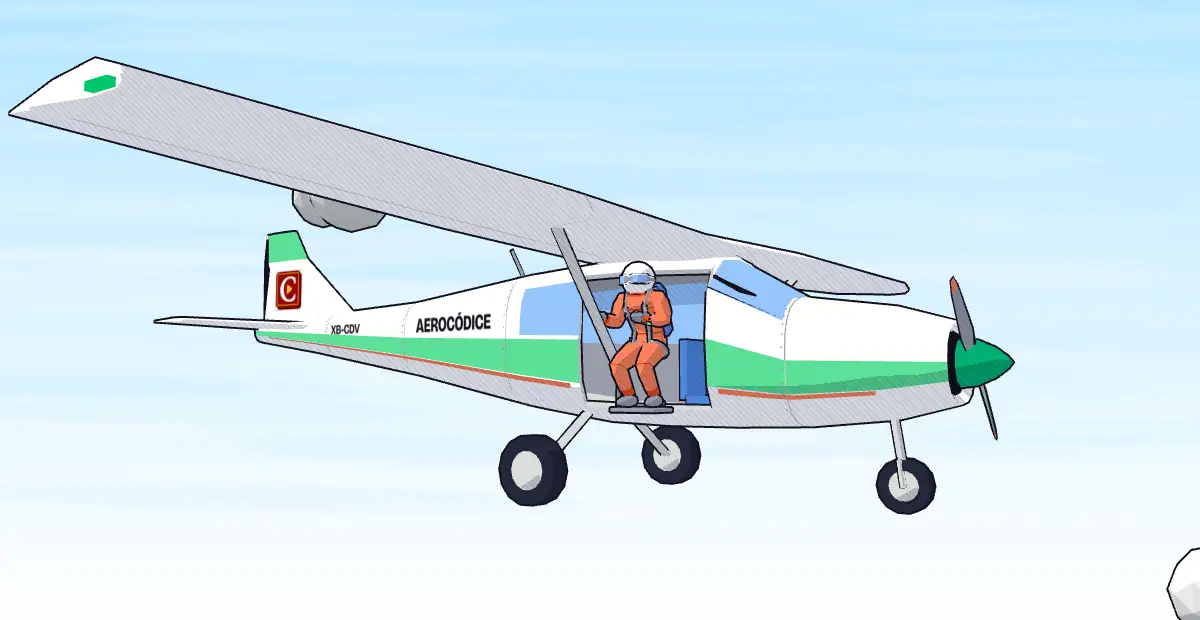
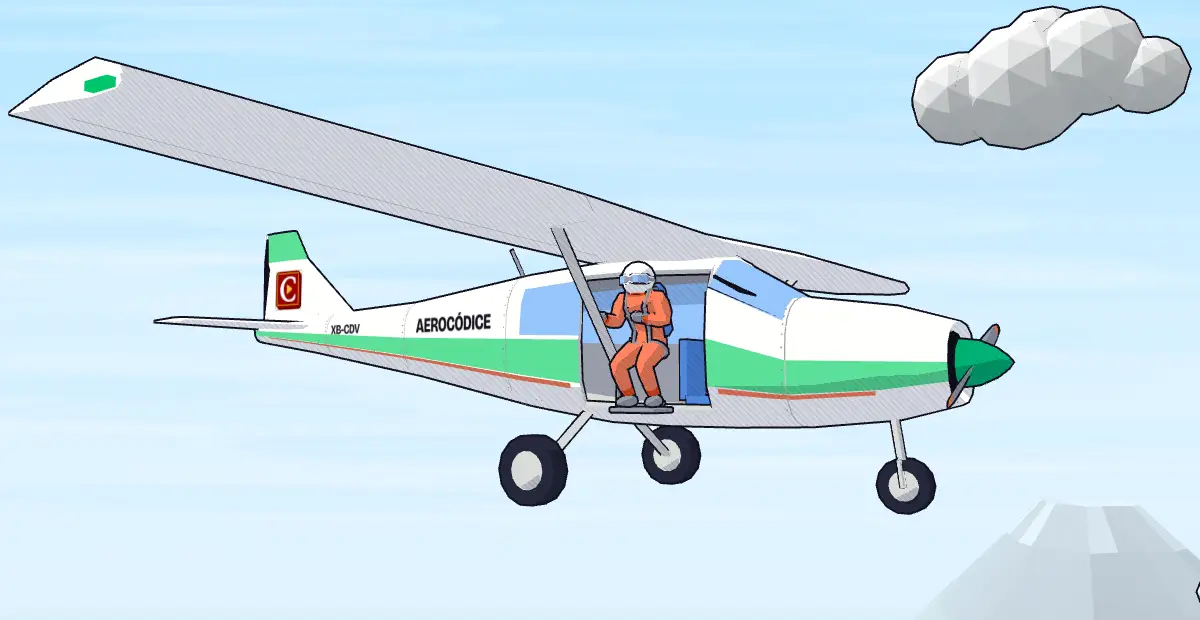
lámina caída libre (cine): tierra natural, clima, toma 6, lámpara y PC lado a lado
- Tierra: parcelas irregulares (retícula desigual y desplazada, parcelas unidas y partidas), bosque y
  olivo, paleta de la tierra más suave; volcán al horizonte, medio en bruma.
- Líneas de velocidad blancas, cortas y solo alrededor de la paracaidista.
- Toma 6: sin nube encima y con la cinta coral completa; nubes cercanas casi quietas y en tiempo de escena.
- Clima sin posprocesado: perspectiva atmosférica, nubes en capas, velo que la cámara atraviesa, sombras
  de nubes instanciadas y resplandor del sol con sprite. Nubes unidas en una geometría (fps sin cambio).
- Mesa: lámpara articulada SVG arriba a la izquierda, fuente de la luz y de las sombras.
- PC (≥ 1000 px): lámina sticky al 58 % y mesa al 42 % lado a lado (retícula de 6 columnas, hoja del
  ancho de la mesa); en celular sigue apilado. respaldo.webp regenerado.
- Pendiente en temas.md: cambiar el ícono de la cola.

diff --git a/plantilla/interactivos/caida-libre/taller/escena.js b/plantilla/interactivos/caida-libre/taller/escena.js
@@ -7,9 +7,11 @@ import * as THREE from "three";
 import { GLTFLoader } from "three/addons/loaders/GLTFLoader.js";
 import { MeshoptDecoder } from "three/addons/libs/meshopt_decoder.module.js";   // .glb comprimidos (gltfpack -cc)
 import { clone as clonar } from "three/addons/utils/SkeletonUtils.js";
+import { mergeGeometries } from "three/addons/utils/BufferGeometryUtils.js";
 import { estilizar, pieza, ajustarContorno, agregarContorno, contornoPropio } from "./toon.js";
 import { crearEtiquetas } from "./etiquetas.js";
 import { crearTierra } from "./tierra.js";
+import { crearPaleta } from "./paleta.js";
 
 const C = { blanco: 0xf4f4f1, gris: 0xd6d7d5, grisO: 0x9fa3aa, menta: 0x8fd3b0, azul: 0x6f93c9,
   coral: 0xe39a84, coralO: 0xc77964, alumna: 0xe3b95a, tinta: 0x2a2a33, nube: 0xffffff };
@@ -83,7 +85,8 @@ export async function crearEscena({ lienzo, maqueta, D, P, rutaModelos, reducido
   ren.setPixelRatio(Math.min(devicePixelRatio, 2));
   ren.outputColorSpace = THREE.SRGBColorSpace;
   const esc = new THREE.Scene();
-  const CIELO = ["#BFDDEC", "#DCEEF5", "#EEF6F3"];
+  // Perspectiva atmosférica: lo lejano se aclara y azulea; la niebla y el pie del cielo son el mismo azul claro.
+  const CIELO = ["#BFDDEC", "#D8EAF4", "#DDE9F0"];
   esc.fog = new THREE.Fog(0xffffff, CI.tierra.nieblaDe, CI.tierra.nieblaA);
   // Cielo pintado: degradado + pinceladas suaves (acuarela) en un canvas que se pinta UNA vez
   // (también para la imagen fija). La niebla toma el color de abajo para que el horizonte no se corte.
@@ -108,7 +111,7 @@ export async function crearEscena({ lienzo, maqueta, D, P, rutaModelos, reducido
     const tex = new THREE.CanvasTexture(c); tex.colorSpace = THREE.SRGBColorSpace; esc.background = tex;
   }
   pintaCielo();
-  const cam = new THREE.PerspectiveCamera(34, 1, 0.5, 1600);
+  const cam = new THREE.PerspectiveCamera(34, 1, 0.5, 2800);
   esc.add(new THREE.HemisphereLight(0xffffff, 0xcfd8dc, 1.6));
   const sol = new THREE.DirectionalLight(0xffffff, 2.2); sol.position.set(-6, 10, 4); esc.add(sol);
   const et = crearEtiquetas(maqueta);
@@ -233,23 +236,64 @@ export async function crearEscena({ lienzo, maqueta, D, P, rutaModelos, reducido
   const etSola = et.nueva(D.texto(D.T.textos.sola), { prioridad: 4, clase: "chip" });
 
   // ---------- nubes y tierra ----------
-  const nubes = [], geoNube = new THREE.IcosahedronGeometry(1, 1), matNube = new THREE.MeshLambertMaterial({ color: C.nube, flatShading: true });
+  // Una nube = 5 esferas low-poly unidas en UNA geometría compartida (1 malla + 1 contorno por nube).
+  const geoNube = new THREE.IcosahedronGeometry(1, 1);
+  const unir = (bolas) => mergeGeometries(bolas.map(([a, b, c, r]) => geoNube.clone().scale(r, r, r).translate(a, b, c)));
+  const geoCumulo = unir([[0, 0, 0, 1.6], [1.6, .3, .2, 1.3], [-1.5, -.1, .1, 1.2], [.5, .9, -.3, 1.1], [2.8, -.2, 0, .9]]);
+  const nubes = [], matNube = new THREE.MeshLambertMaterial({ color: C.nube, flatShading: true });
   function nube(x, y, z, s) {
-    const g = new THREE.Group(); g.position.set(x, y, z); g.scale.setScalar(s); esc.add(g);
-    [[0, 0, 0, 1.6], [1.6, .3, .2, 1.3], [-1.5, -.1, .1, 1.2], [.5, .9, -.3, 1.1], [2.8, -.2, 0, .9]].forEach(([a, b, c, r]) => {
-      const m = new THREE.Mesh(geoNube, matNube); m.scale.setScalar(r);
-      m.position.set(a, b, c); g.add(m); agregarContorno(m);
-    });
+    const g = new THREE.Mesh(geoCumulo, matNube); g.position.set(x, y, z); g.scale.setScalar(s); esc.add(g);
+    agregarContorno(g);
     g.userData = { casa: x, desliza: 0 };
     nubes.push(g);
   }
   // junto a la cinta (como antes) · en la ruta de la avioneta · abajo, entre la caída y la tierra
-  nube(-30, 30, -6, 1.3); nube(22, 36, -14, 1.1); nube(-22, 26, -8, 1.6); nube(24, 16, -10, 1.2);
-  nube(-20, 8, -12, 1.2); nube(20, 2, -16, 1.4); nube(-10, -16, -24, 1.5);
+  nube(-30, 30, -6, 1.3); nube(22, 36, -14, 1.1); nube(-30, 24, -20, 1.6); nube(24, 16, -10, 1.2);
+  nube(-34, 8, -22, 1.2); nube(22, 2, -18, 1.4); nube(-32, -16, -34, 1.5);   // fuera de la línea de la toma 6
   nube(-250, 64, -40, 2.2); nube(-185, 34, -60, 2.6); nube(-125, 72, -34, 1.8); nube(-75, 44, -75, 2.8); nube(-220, 30, 70, 2);
   nube(-30, -70, -50, 3.2); nube(40, -105, 20, 3.6); nube(-80, -140, 40, 4); nube(70, -160, -90, 4.4);
-  const tierra = crearTierra({ y: YT, hex: P.css });   // tierra.userData.recolorea(hex) la repinta
+  // Capa baja (entre la caída y la tierra) y capa alta: el cielo tiene profundidad.
+  [[-60, -32, -40, 2.8], [-15, -38, -70, 3.2], [35, -30, -45, 2.6], [70, -42, -20, 3.4], [-90, -36, 10, 3], [10, -45, 30, 3.6],
+   [-40, 88, -90, 3.4], [60, 96, -120, 4], [-150, 92, -60, 3.6]].forEach(([x, y, z, k]) => nube(x, y, z, k));
+  // Velo que la cámara atraviesa al caer (toma 5): nube translúcida en su camino, sin contorno.
+  const matVelo = new THREE.MeshLambertMaterial({ color: C.nube, flatShading: true, transparent: true, opacity: .28, depthWrite: false });
+  const velo = new THREE.Mesh(unir([[0, 0, 0, 1.6], [1.5, .3, .2, 1.2], [-1.4, -.1, .1, 1.1], [.4, .8, -.3, 1]]), matVelo);
+  velo.position.set(5.9, 41.7, 12.9); velo.scale.setScalar(.85); esc.add(velo);
+  // La tierra usa la paleta con menos croma y sin empujón al verde: viva pero natural (no verde limón).
+  const pT = P.activa ? crearPaleta({ ...D.cine.paletas.predeterminada, croma: 1.25, verde: 0 }) : P;
+  const tierra = crearTierra({ y: YT, hex: pT.css });   // tierra.userData.recolorea(hex) la repinta
   esc.add(tierra);
+  // Sombras de nubes sobre la tierra: manchas suaves que se deslizan despacio (textura de 64 px, 10 planos).
+  const texMancha = (() => {
+    const c = document.createElement("canvas"); c.width = c.height = 64;
+    const x = c.getContext("2d"), g = x.createRadialGradient(32, 32, 4, 32, 32, 32);
+    g.addColorStop(0, "rgba(255,255,255,1)"); g.addColorStop(.6, "rgba(255,255,255,.6)"); g.addColorStop(1, "rgba(255,255,255,0)");
+    x.fillStyle = g; x.fillRect(0, 0, 64, 64); return new THREE.CanvasTexture(c);
+  })();
+  const matSombra = new THREE.MeshBasicMaterial({ map: texMancha, color: 0x1d3524, transparent: true, opacity: .2, depthWrite: false });
+  const NS_ = 10, sombras = new THREE.InstancedMesh(new THREE.PlaneGeometry(1, 1).rotateX(-Math.PI / 2), matSombra, NS_);
+  sombras.userData.propio = true; sombras.frustumCulled = false; esc.add(sombras);
+  const datoSombra = Array.from({ length: NS_ }, (_, k) => ({ x: -650 + (k * 431) % 1300, z: -700 + (k * 283) % 1000, sx: 160 + (k * 37) % 120, sz: 110 + (k * 53) % 90 }));
+  const mSom = new THREE.Matrix4(), pSom = new THREE.Vector3(), qSom = new THREE.Quaternion(), eSom = new THREE.Vector3();
+  function moverSombras(tau) {                  // se deslizan con el tiempo de la escena (reproducible)
+    datoSombra.forEach((o, k) => {
+      const x = o.x - 500 + ((tau * (3 + k % 3) * 4 + 500) % 1000);
+      sombras.setMatrixAt(k, mSom.compose(pSom.set(x, YT + 1.5, o.z), qSom, eSom.set(o.sx, 1, o.sz)));
+    });
+    sombras.instanceMatrix.needsUpdate = true;
+  }
+  moverSombras(0);
+  // Sol: resplandor suave con un sprite, arriba a la izquierda, siempre a la misma distancia de la cámara.
+  const SOL = new THREE.Vector3(-0.62, 0.5, -0.6).normalize();
+  const sol_ = (() => {
+    const c = document.createElement("canvas"); c.width = c.height = 128;
+    const x = c.getContext("2d"), g = x.createRadialGradient(64, 64, 2, 64, 64, 64);
+    g.addColorStop(0, "rgba(255,252,236,1)"); g.addColorStop(.12, "rgba(255,248,222,.95)"); g.addColorStop(.35, "rgba(255,240,205,.35)"); g.addColorStop(1, "rgba(255,240,205,0)");
+    x.fillStyle = g; x.fillRect(0, 0, 128, 128);
+    const t = new THREE.CanvasTexture(c); t.colorSpace = THREE.SRGBColorSpace;
+    const sp = new THREE.Sprite(new THREE.SpriteMaterial({ map: t, transparent: true, depthWrite: false, fog: false }));
+    sp.scale.setScalar(420); sp.userData.propio = true; esc.add(sp); return sp;
+  })();
 
   // ---------- paleta: pasada por los materiales al cargar y al soltar un deslizador (nunca por cuadro) ----------
   const colores = [], vistos = new Set();                      // [color de three, original]
@@ -311,7 +355,8 @@ export async function crearEscena({ lienzo, maqueta, D, P, rutaModelos, reducido
     salto: (l, d) => { const k = ease(clamp(l * 1.3)); return [d.clone().add(V(4, -.2 + 2.2 * k, 6 + 18 * k)), d.clone().add(V(-1.2 + 3.7 * k, .1 - 1.6 * k, -1 + k))]; },
     // tilt down: desde arriba, la mirada baja hasta tener la tierra de fondo
     picado: (l, d) => [d.clone().add(V(7, 6 + 3.5 * ease(l), 11)), d.clone().add(V(1, -1.5 - 2 * ease(l), -1))],
-    persecucion: (l, d) => [d.clone().add(V(5, 7, 8 - 1.5 * l)), d.clone().add(V(1, -2.5 - 2 * l, -2))],
+    // picado cercano: mira al punto medio entre ella y la cinta, para que el tramo coral entre completo
+    persecucion: (l, d) => [d.clone().add(V(4.4, 9, 13 - 1.5 * l)), d.clone().add(V(4.4, -3 - 2 * l, -1))],
     // apertura: desde abajo, la vela se infla contra el cielo
     abrir: (l, d) => [d.clone().add(V(9, -8 + 2 * l, 14)), d.clone().add(V(-1.5, 2.5 + 1.5 * l, 0))],
     revelacion: () => revelacion(),
@@ -325,8 +370,12 @@ export async function crearEscena({ lienzo, maqueta, D, P, rutaModelos, reducido
   function plano(i, S, d, a) {
     const x = TOMAS[i], l = clamp((S - x.de) / (x.a - x.de));
     let [p, o] = TOMA[x.cam](l, d, a);
-    if (cam.aspect < 1 && LEJOS[x.cam]) {                // pantalla vertical: más lejos y, al caer, centrado entre la sola y el tándem
-      const k = Math.min(2.2, LEJOS[x.cam] / cam.aspect), dx = CAEN.has(x.cam) && S >= SALTO ? (XT - X0) / 2 : 0;
+    if (cam.aspect < 1.9 && LEJOS[x.cam]) {
+      // Las tomas se encuadraron para la lámina ancha (~2.4:1). Pantalla vertical: más lejos y, al caer, centrado
+      // entre la sola y el tándem. PC lado a lado (~1.2:1): solo un retroceso suave.
+      const vertical = cam.aspect < 1;
+      const k = vertical ? Math.min(2.2, LEJOS[x.cam] / cam.aspect) : 1 + (1.9 - cam.aspect) * 0.62;
+      const dx = vertical && CAEN.has(x.cam) && S >= SALTO ? (XT - X0) / 2 : 0;
       o = o.clone().add(V(dx, 0, 0)); p = o.clone().add(p.clone().sub(o).add(V(dx, 0, 0)).multiplyScalar(k));
     }
     return [p, o];
@@ -375,18 +424,18 @@ export async function crearEscena({ lienzo, maqueta, D, P, rutaModelos, reducido
     const viento = S < SALTO + 0.4, caida = S >= SALTO && S < ABRIR + 0.3 && v > 2;
     vetas.visible = !reducido && (viento || caida);
     if (!vetas.visible) return;
-    if (caida) {                                  // líneas de velocidad: suben tanto como ella cae (h), largas según v
-      const c = V((X0 + XT) / 2, d.y, (Z0 + ZT) / 2), H = 26, L = 0.4 + v * 0.09;
-      vetas.material.opacity = clamp(v / 20) * 0.32;
+    if (caida) {                                  // líneas de velocidad: blancas, cortas, solo alrededor de ella; suben lo que ella cae
+      const H = 7, L = 0.25 + v * 0.035;
+      vetas.material.color.setHex(0xffffff); vetas.material.opacity = clamp(v / 18) * 0.75;
       semVeta.forEach(([a, b, e], i) => {
-        const ang = a * 6.283, rad = 3 + b * 7;
-        pVeta.set(c.x + Math.cos(ang) * rad * 1.4, c.y - H / 2 + ((e * H + hT) % H), c.z + Math.sin(ang) * rad);
+        const ang = a * 6.283, rad = 1.3 + b * 2.4;
+        pVeta.set(d.x + Math.cos(ang) * rad, d.y - H / 2 + ((e * H + hT) % H), d.z + Math.sin(ang) * rad);
         qVeta.setFromAxisAngle(yEje, Math.atan2(cam.position.x - pVeta.x, cam.position.z - pVeta.z));
-        mVeta.compose(pVeta, qVeta, eVeta.set(0.07, L, 1)); vetas.setMatrixAt(i, mVeta);
+        mVeta.compose(pVeta, qVeta, eVeta.set(0.035, L, 1)); vetas.setMatrixAt(i, mVeta);
       });
     } else {                                      // viento: vetas horizontales que pasan junto a la avioneta
       const a0 = av.position, rel = tau * E.velocidadAvioneta * 2.2;
-      vetas.material.opacity = 0.22;
+      vetas.material.color.setHex(0x343a52); vetas.material.opacity = 0.22;
       semVeta.forEach(([a, b, e, f], i) => {
         pVeta.set(a0.x + 18 - ((a * 36 + rel) % 36), a0.y + (b - .5) * 8, a0.z - 8 + e * 12);
         qVeta.identity(); mVeta.compose(pVeta, qVeta, eVeta.set(1.2 + f * 2.6, 0.05, 1)); vetas.setMatrixAt(i, mVeta);
@@ -447,7 +496,13 @@ export async function crearEscena({ lienzo, maqueta, D, P, rutaModelos, reducido
     });
     contornoYo.uniforms.color.value.copy(seg ? colSeg[seg - 1] : tintaYo);
     contornoYo.uniforms.grosor.value = seg ? grosor * 2 : grosor;
-    if (!reducido) nubes.forEach((nb, i) => { const u = nb.userData; u.desliza = (u.desliza + dtF * (0.6 + i % 3 * .3)) % 60; nb.position.x = u.casa - 30 + u.desliza; });
+    // las nubes se desplazan con el tiempo físico de la escena (reproducible: mismo instante, mismo cielo)
+    const tauN = D.tauDe(S);
+    // las cercanas a la caída apenas se mueven (±6 m): nunca cruzan el pasillo entre ella y la cinta
+    if (!reducido) nubes.forEach((nb, i) => {
+      const u = nb.userData, amp = Math.abs(u.casa) < 45 && Math.abs(nb.position.y) < 45 ? 6 : 30;
+      nb.position.x = u.casa + amp * (((tauN * (0.6 + i % 3 * .3) + i * 7.3) % 60) / 30 - 1);
+    });
     const abierto = S >= ABRIR;
     etTan.visible = S >= SALTO && !abierto; etTan.pos.set(XT, y + 3.2, ZT);
     etSola.visible = S >= SALTO && !abierto; etSola.pos.set(X0, y + 2.6, Z0);
@@ -459,6 +514,8 @@ export async function crearEscena({ lienzo, maqueta, D, P, rutaModelos, reducido
     }
     aleteo(yo, S, 0); aleteo(tan, S, 1.7);
     camara(S, d, est, W, H);
+    sol_.position.copy(cam.position).addScaledVector(SOL, 1500);
+    if (!reducido) moverSombras(D.tauDe(S));
     vetasDe(S, lec, d); if (est.respaldo || est.pausa) vetas.visible = false;
     verDetalle(detYo, d, 16); verDetalle(detTan, tan.o.position, 16);   // en el bullet time no: con la órbita parecerían lluvia
     halo.visible = !!seg && !est.respaldo;

diff --git a/plantilla/interactivos/caida-libre/taller/tierra.js b/plantilla/interactivos/caida-libre/taller/tierra.js
@@ -4,12 +4,15 @@
 import * as THREE from "three";
 
 const COL = {
-  campos: ["#A9D77A", "#C9DD8F", "#93C96E", "#E2D39A", "#B6DC87", "#D7C77F", "#8CBF67", "#7DBA5C", "#6FAE52", "#BFE09A", "#9CCB6B"],
+  // Vivo pero natural: bosque y olivo oscuros, pastos medios, trigo y barbecho; poco verde limón.
+  campos: ["#4F7F45", "#5E8A4A", "#6F8F4C", "#7D9152", "#7FA35A", "#8FAF62", "#93B26B", "#A3B46E",
+           "#C9B97A", "#D2BE7E", "#B59A6A", "#A6B97A"],
+  pesos: [3, 3, 3, 2, 3, 3, 2, 2, 2, 1, 1, 1],
   camino: "#D8C9A6",
   techosGranja: ["#D9694F", "#5B8DD6", "#3FA581", "#E8894F", "#C9573F"],
   rio: "#6FB3D6", orilla: "#B9D9A0", carretera: "#D8D1C2", linea: "#F4F1EA",
   muro: ["#F2EBDD", "#E8DCC8", "#F6F1E6"], techo: ["#D9694F", "#C9573F", "#B95A48"],
-  arbol: "#5E9E5C", arbolO: "#4E8A50", volcanBase: "#9DB07F", volcanMedio: "#8E7F72", volcanAlto: "#A39589",
+  arbol: "#4C7F48", arbolO: "#3E6B3E", volcanBase: "#9DB07F", volcanMedio: "#8E7F72", volcanAlto: "#A39589",
   nieve: "#F7F7F4", crater: "#6E625A",
 };
 
@@ -22,13 +25,30 @@ export function crearTierra({ y = -420, hex = (x) => x, escala = .45 } = {}) {
   const quad = (a, b, d, e, h) => { tri(a, b, d, h); tri(a, d, e, h); };
   const mezcla = (h1, h2, k) => "#" + new THREE.Color(h1).lerp(new THREE.Color(h2), k).getHexString();
 
-  // Campos: mosaico de parcelas con un poco de variación de tono.
+  // Campos irregulares: retícula de líneas con separación desigual y vértices desplazados (cuadriláteros
+  // de formas distintas); algunas parcelas vecinas comparten color (parcelas grandes de forma libre) y
+  // otras se parten en diagonal. Nada de tablero de ajedrez.
   const N = 40, L = 70, X0 = -1400, Z0 = -1700;
-  quad([-7000, -1, -7000], [-7000, -1, 7000], [7000, -1, 7000], [7000, -1, -7000], "#B5D38A");   // fondo hasta el horizonte
+  quad([-7000, -1, -7000], [-7000, -1, 7000], [7000, -1, 7000], [7000, -1, -7000], "#7E9A5C");   // fondo hasta el horizonte
+  const lineas = (n) => { const out = [0]; for (let k = 0; k < n; k++) out.push(out[k] + L * (.45 + azar() * 1.1)); const f = n * L / out[n]; return out.map((x) => x * f); };
+  const xs = lineas(N), zs = lineas(N);
+  const R = Array.from({ length: N + 1 }, (_, i) => Array.from({ length: N + 1 }, (_, j) => {
+    const borde = i === 0 || j === 0 || i === N || j === N;
+    return [X0 + xs[i] + (borde ? 0 : (azar() - .5) * L * .55), Z0 + zs[j] + (borde ? 0 : (azar() - .5) * L * .55)];
+  }));
+  const total = COL.pesos.reduce((a, b) => a + b, 0);
+  const sortea = () => { let r = azar() * total; for (let k = 0; k < COL.pesos.length; k++) if ((r -= COL.pesos[k]) < 0) return k; return 0; };
+  const idx = [];
+  for (let i = 0; i < N; i++) { idx.push([]); for (let j = 0; j < N; j++) {
+    const r = azar();
+    idx[i].push(r < .3 && i ? idx[i - 1][j] : r < .5 && j ? idx[i][j - 1] : sortea());
+  } }
+  const tono = (k) => mezcla(COL.campos[k], azar() < .5 ? "#FFFFFF" : "#3E5A34", azar() * .08);
   for (let i = 0; i < N; i++) for (let j = 0; j < N; j++) {
-    const x = X0 + i * L, z = Z0 + j * L, base = COL.campos[Math.floor(azar() * COL.campos.length)];
-    const h = mezcla(base, azar() < .5 ? "#FFFFFF" : "#6E8F4E", azar() * .12);
-    quad([x, 0, z], [x, 0, z + L], [x + L, 0, z + L], [x + L, 0, z], h);
+    const [a, b, c2, d] = [R[i][j], R[i][j + 1], R[i + 1][j + 1], R[i + 1][j]].map(([x, z]) => [x, 0, z]);
+    const h = tono(idx[i][j]);
+    if (azar() < .18) { tri(a, b, c2, h); tri(a, c2, d, tono(sortea())); }       // parcela partida en diagonal
+    else quad(a, b, c2, d, h);
   }
   // Tira a lo largo de una curva (río y carretera).
   function tira(f, ancho, alto, h, n = 60) {
@@ -46,9 +66,11 @@ export function crearTierra({ y = -420, hex = (x) => x, escala = .45 } = {}) {
   // Caminos de terracería: siguen algunas líneas del mosaico (entre parcelas).
   for (let k = 0; k < 14; k++) {
     const vertical = k % 2, linea = 4 + Math.floor(azar() * (N - 8)), desde = Math.floor(azar() * (N - 12)), largo = 6 + Math.floor(azar() * 10);
-    const fija = (vertical ? X0 : Z0) + linea * L, a0 = desde * L, a1 = Math.min(N, desde + largo) * L;
-    const f = (u) => vertical ? [fija, Z0 + a0 + (a1 - a0) * u] : [X0 + a0 + (a1 - a0) * u, fija];
-    tira(f, 5, .6, COL.camino, 2);
+    const hasta = Math.min(N, desde + largo);
+    for (let k = desde; k < hasta; k++) {
+      const p0 = vertical ? R[linea][k] : R[k][linea], p1 = vertical ? R[linea][k + 1] : R[k + 1][linea];
+      tira((u) => [p0[0] + (p1[0] - p0[0]) * u, p0[1] + (p1[1] - p0[1]) * u], 5, .6, COL.camino, 1);
+    }
   }
 
   // Caja con techo de otro color (sin cara de abajo).
@@ -99,8 +121,9 @@ export function crearTierra({ y = -420, hex = (x) => x, escala = .45 } = {}) {
   }
 
   // Volcán al fondo: cono truncado con anillos de color, cráter y nieve.
-  const VX = -620, VZ = -1350, SEG = 18;
-  const anillos = [[300, 0, COL.volcanBase], [190, 120, COL.volcanMedio], [95, 215, COL.volcanAlto], [52, 262, COL.nieve], [30, 250, COL.crater]];
+  // Volcán en el horizonte (a ~1.3 km de la caída): grande y medio perdido en la niebla, no un cerrito bajo ella.
+  const VX = -1000, VZ = -3500, SEG = 18, EV = 2.6;
+  const anillos = [[300 * EV, 0, COL.volcanBase], [190 * EV, 120 * EV, COL.volcanMedio], [95 * EV, 215 * EV, COL.volcanAlto], [52 * EV, 262 * EV, COL.nieve], [30 * EV, 250 * EV, COL.crater]];
   const jit = Array.from({ length: SEG }, () => .88 + azar() * .24);
   for (let r = 0; r < anillos.length - 1; r++) {
     const [r0, y0, h0] = anillos[r], [r1, y1] = anillos[r + 1];
@@ -108,7 +131,8 @@ export function crearTierra({ y = -420, hex = (x) => x, escala = .45 } = {}) {
       const a = k / SEG * 6.283, b = (k + 1) / SEG * 6.283, ja = jit[k], jb = jit[(k + 1) % SEG];
       const p = (rr, yy, ang, j) => [VX + rr * j * Math.cos(ang), yy, VZ + rr * j * Math.sin(ang)];
       const hh = r === 2 && k % 3 === 0 ? COL.nieve : h0;                           // lenguas de nieve
-      quad(p(r0, y0, a, ja), p(r1, y1, a, ja), p(r1, y1, b, jb), p(r0, y0, b, jb), k % 2 ? hh : mezcla(hh, "#000000", .08));
+      const bruma = mezcla(k % 2 ? hh : mezcla(hh, "#000000", .08), "#C9D8E4", .5);       // perspectiva atmosférica horneada: medio en niebla
+      quad(p(r0, y0, a, ja), p(r1, y1, a, ja), p(r1, y1, b, jb), p(r0, y0, b, jb), bruma);
     }
   }
 

diff --git a/plantilla/interactivos/caida-libre/taller/estilos.css b/plantilla/interactivos/caida-libre/taller/estilos.css
@@ -85,7 +85,11 @@ footer{display:flex;align-items:center;gap:10px}footer .eti{color:#3A2A14}
   background-image:linear-gradient(rgba(255,255,255,.10) 1px,transparent 1px),linear-gradient(90deg,rgba(255,255,255,.10) 1px,transparent 1px),linear-gradient(rgba(255,255,255,.22) 1px,transparent 1px),linear-gradient(90deg,rgba(255,255,255,.22) 1px,transparent 1px);
   background-size:20px 20px,20px 20px,100px 100px,100px 100px;box-shadow:0 30px 50px rgba(40,20,5,.45),inset 0 0 0 3px rgba(255,255,255,.08)}
 .tapete::after{content:"CÓDICE VIVO · TALLER";position:absolute;right:18px;bottom:10px;font:500 12px "Geist Mono",monospace;letter-spacing:.2em;color:rgba(255,255,255,.35)}
-.lampara{position:absolute;inset:0;border-radius:14px;pointer-events:none;z-index:0;background:radial-gradient(70% 60% at 8% 0%,rgba(255,236,190,.28),transparent 70%),radial-gradient(120% 90% at 100% 100%,rgba(0,0,0,.22),transparent 60%)}
+/* la luz de la mesa viene de la lámpara (arriba a la izquierda): resplandor cálido bajo la pantalla y
+   sombra hacia abajo a la derecha; las sombras de papeles e instrumentos ya caen hacia allá */
+.lampara{position:absolute;inset:0;border-radius:14px;pointer-events:none;z-index:0;background:radial-gradient(55% 45% at 22% 12%,rgba(255,236,190,.34),transparent 72%),radial-gradient(120% 90% at 100% 100%,rgba(0,0,0,.24),transparent 60%)}
+.t-lampara{position:absolute;left:-34px;top:-92px;width:180px;z-index:4;pointer-events:none;filter:drop-shadow(1px 2px 1px rgba(0,0,0,.45)) drop-shadow(16px 22px 10px rgba(0,0,0,.35))}
+@media (max-width:700px){.t-lampara{width:120px;left:-8px;top:-52px}}
 .obj{position:relative;z-index:1}
 .obj .sombra3d{box-shadow:0 0 0 .5px rgba(0,0,0,.18),0 1px 1.5px rgba(0,0,0,.55),10px 14px 16px -4px rgba(0,0,0,.42)}
 .t-cuaderno{grid-column:span 4}.t-mili{grid-column:span 3}.t-postit{grid-column:span 2}.t-ficha{grid-column:span 3}
@@ -113,6 +117,24 @@ footer{display:flex;align-items:center;gap:10px}footer .eti{color:#3A2A14}
 .t-lapiz{position:absolute;right:4%;bottom:14px;width:210px;z-index:2;transform:rotate(-14deg);filter:drop-shadow(1px 2px 1px rgba(0,0,0,.5)) drop-shadow(8px 12px 6px rgba(0,0,0,.4))}
 @media (max-width:700px){.t-lapiz{width:130px;bottom:8px}}
 
+/* PC (≥ 1000 px): lámina y mesa lado a lado. El video queda fijo (sticky) mientras se recorre la mesa;
+   la mesa (~42 %) usa la retícula de 6 columnas para que nada se encime; la hoja se lee sobre la mesa. */
+@media (min-width:1000px){
+  .wrap{max-width:1500px;grid-template-columns:minmax(0,58fr) minmax(0,42fr);align-items:start;column-gap:26px}
+  .lamina{position:sticky;top:12px;align-self:start}
+  .maqueta{height:min(calc(100vh - 230px),620px);min-height:340px}
+  h1{font-size:clamp(26px,2.5vw,40px)}
+  .mesa3d{margin-top:64px;padding:0 34px 150px 0}
+  .plano.casi{--rz:-.8deg}.plano.inclinada{--rz:-1deg}   /* la mesa inclinada se dibuja más allá de su caja: margen abajo y a la derecha */
+  .etq{font-size:11px;padding:3px 6px;max-width:100%}   /* en la columna de 42 % se parte en dos renglones antes que salirse */
+  details.tomas,footer{grid-column:1/-1}
+  .plano{grid-template-columns:repeat(6,minmax(0,1fr));gap:18px;padding:64px 20px 46px}   /* arriba, espacio para la base de la lámpara */
+  .t-cuaderno,.t-mili{grid-column:span 6}.t-postit,.t-ficha{grid-column:span 3}.t-crono,.t-velo,.t-alti{grid-column:span 2}
+  .t-crono{grid-column:1/span 2}
+  .levantada{top:6px}
+  .t-lapiz{width:160px}
+}
+
 /* hoja levantada (de frente para leer) */
 .levantada{position:absolute;z-index:20;left:50%;top:-40px;width:min(94vw,520px);transform-origin:top left;will-change:transform;filter:drop-shadow(0 28px 30px rgba(0,0,0,.35))}
 .levantada .cerrar{position:absolute;right:10px;top:8px;border:0;background:#22212B;color:#fff;border-radius:999px;width:34px;height:34px;font-size:18px;cursor:pointer;z-index:2}
@@ -122,5 +144,5 @@ footer{display:flex;align-items:center;gap:10px}footer .eti{color:#3A2A14}
 /* captura de la imagen fija: solo la escena, sin capas de texto */
 .captura-respaldo .lenta,.captura-respaldo .claqueta,.captura-respaldo .cuenta,.captura-respaldo .titulo3d,.captura-respaldo #carga,.captura-respaldo #borde,.captura-respaldo .capa-etiquetas{display:none!important}
 .captura-respaldo .mesa3d,.captura-respaldo details,.captura-respaldo footer,.captura-respaldo .lamina header,.captura-respaldo .controles{display:none!important}
-.captura-respaldo .wrap{padding:0;max-width:none}.captura-respaldo .lamina{transform:none;padding:0}
+.captura-respaldo .wrap{padding:0;max-width:none;display:block}.captura-respaldo .lamina{position:static}.captura-respaldo .lamina{transform:none;padding:0}
 .captura-respaldo .maqueta{height:100vh;min-height:0}

diff --git a/plantilla/interactivos/caida-libre/taller/index.html b/plantilla/interactivos/caida-libre/taller/index.html
@@ -39,6 +39,22 @@
   <section class="mesa3d" id="mesa3d">
     <div class="escala"><div class="plano casi">
       <div class="tapete"></div><div class="lampara"></div>
+      <svg class="t-lampara" viewBox="0 0 220 200" aria-hidden="true">
+        <!-- lámpara de estudio articulada: base, dos brazos con resortes, pantalla que alumbra hacia abajo a la derecha -->
+        <ellipse cx="44" cy="168" rx="34" ry="14" fill="#2B2D35"/><ellipse cx="44" cy="164" rx="34" ry="14" fill="#D9694F" stroke="#22212B" stroke-width="1.6"/>
+        <ellipse cx="38" cy="160" rx="18" ry="6" fill="#E9876D" opacity=".7"/>
+        <rect x="40" y="150" width="8" height="16" rx="2" fill="#3A3D47" stroke="#22212B" stroke-width="1.2"/>
+        <path d="M44 154 L 92 70" stroke="#D9694F" stroke-width="7" stroke-linecap="round"/><path d="M44 154 L 92 70" stroke="#22212B" stroke-width="1.4" fill="none" opacity=".55"/>
+        <path d="M52 150 l6 -6 l-2 -8 l6 -6 l-2 -8 l6 -6 l-2 -8 l6 -6 l-2 -8 l6 -6 l-2 -8 l6 -6" stroke="#9FA3AA" stroke-width="1.4" fill="none"/>
+        <circle cx="92" cy="70" r="7" fill="#3A3D47" stroke="#22212B" stroke-width="1.4"/><circle cx="92" cy="70" r="2.4" fill="#C9CED6"/>
+        <path d="M92 70 L 150 46" stroke="#D9694F" stroke-width="6" stroke-linecap="round"/><path d="M92 70 L 150 46" stroke="#22212B" stroke-width="1.2" fill="none" opacity=".55"/>
+        <path d="M100 62 l5 -7 l4 4 l5 -7 l4 4 l5 -7 l4 4 l5 -7 l4 4 l5 -7" stroke="#9FA3AA" stroke-width="1.2" fill="none"/>
+        <circle cx="150" cy="46" r="6" fill="#3A3D47" stroke="#22212B" stroke-width="1.3"/>
+        <path d="M146 40 L 176 30 L 206 82 L 170 98 Z" fill="#D9694F" stroke="#22212B" stroke-width="1.6" stroke-linejoin="round"/>
+        <path d="M176 30 L 206 82" stroke="#B84F38" stroke-width="5" opacity=".5"/>
+        <ellipse cx="188" cy="90" rx="20" ry="9" transform="rotate(-24 188 90)" fill="#FFF4D6" stroke="#22212B" stroke-width="1.4"/>
+        <ellipse cx="188" cy="90" rx="11" ry="5" transform="rotate(-24 188 90)" fill="#FFFFFF"/>
+      </svg>
       <div class="obj t-cuaderno toca" id="mCuaderno"><div class="hoja sombra3d cinta miniatura"><div class="eti" id="eCuaderno"></div><p class="mano" id="mCuadernoT"></p><p class="mano" style="color:#22212B"><span id="c1" class="oculto"></span><br><span id="c2" class="oculto"></span><br><span id="c3" class="oculto"></span></p></div></div>
       <div class="obj t-mili" id="mMili"><div class="milimetrico sombra3d cinta miniatura"><div class="eti" id="ePausas"></div><p class="mano" id="mMiliT"></p></div></div>
       <div class="obj t-postit"><div class="postit sombra3d"><div class="eti" style="color:#6B5A20" id="ePred"></div><p class="mano" id="miPred"></p></div></div>

diff --git a/plantilla/interactivos/caida-libre/taller/mesa.js b/plantilla/interactivos/caida-libre/taller/mesa.js
@@ -216,7 +216,11 @@ export function camaraMesa(plano, estado) {
 // ---------- hoja levantada (FLIP de la miniatura a la hoja de frente) ----------
 export function hojaLevantada({ mesa, lev, reduce, origenDe }) {
   let visible = false;
-  function fija() { if (innerWidth > 700) { const w = Math.min(innerWidth * .94, 520); lev.style.left = (mesa.clientWidth - w) / 2 + "px"; } }
+  function fija() {
+    if (innerWidth <= 700) { lev.style.width = ""; return; }
+    const w = Math.min(innerWidth * .94, 520, mesa.clientWidth - 16);         // en PC lado a lado, la mesa mide ~42 %
+    lev.style.width = w + "px"; lev.style.left = (mesa.clientWidth - w) / 2 + "px";
+  }
   function delta(origen) {
     const a = origen.getBoundingClientRect(), b = lev.getBoundingClientRect();
     return `translate(${a.left - b.left}px, ${a.top - b.top}px) scale(${a.width / b.width}, ${a.height / Math.max(1, b.height)})`;
